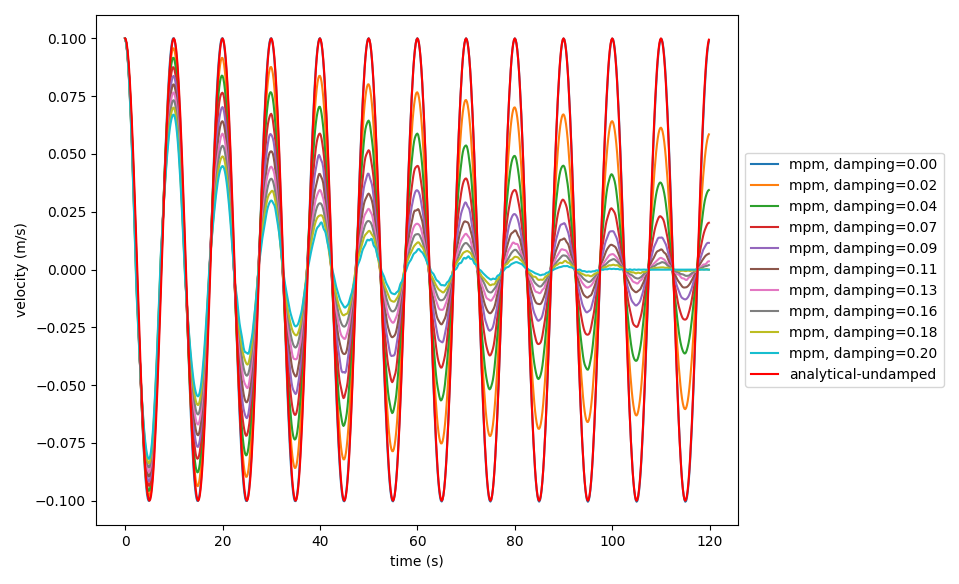
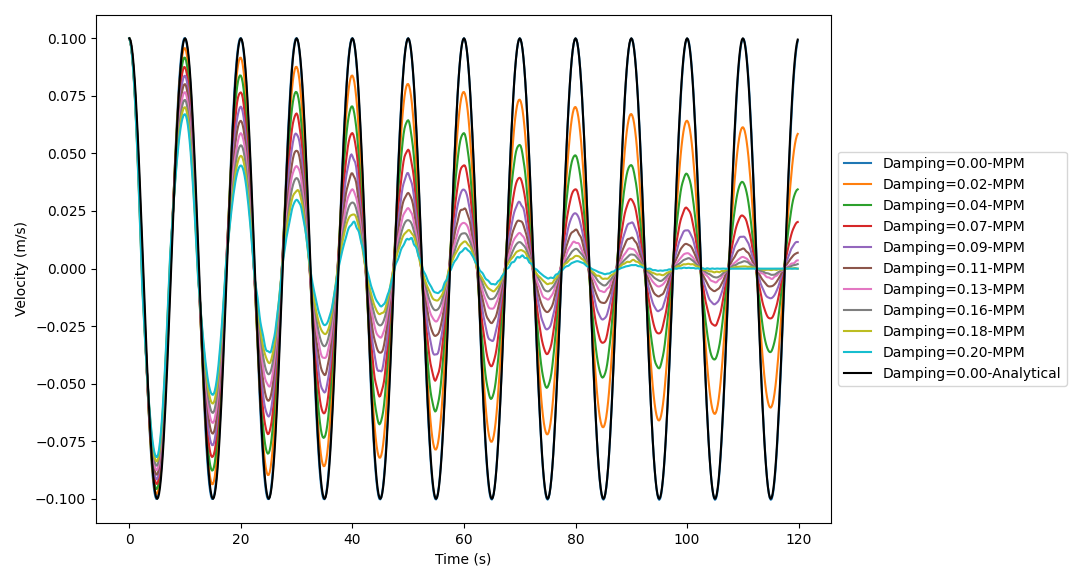
enhanced plots in the verifications problems

diff --git a/verification_problems/mpm_wave_in_pile_parametric_young.py b/verification_problems/mpm_wave_in_pile_parametric_young.py
@@ -90,14 +90,14 @@ for i in range(len(young_serie)):
         y_subset.append(msetup.solution_array[1][indices[i_index]])
         
     # plot mpm solution
-    plt.plot(x_subset,y_subset,linestyle='solid',linewidth=1,color=color_list[i],marker='o',markersize=3,markerfacecolor='none',label='mpm, Young='+'{:.1f}e6'.format(young_serie[i]/1e6))
+    plt.plot(x_subset,y_subset,linestyle='solid',linewidth=1,color=color_list[i],marker='o',markersize=3,markerfacecolor='none',label='Young='+'{:.1f}e6-MPM'.format(young_serie[i]/1e6))
     
     # plot the analytical solution
     [anal_xt,anal_vt, anal_t] = wip.wave_in_pile_fixed_and_loaded(L=L,E=young_serie[i],rho=elastic.density,time=msetup.time,dt=msetup.dt/2,po=po,x=pos_initial)
-    plt.plot(anal_t,anal_xt,color=color_list[i],linewidth=1,label='analytical')
+    plt.plot(anal_t,anal_xt,color=color_list[i],linewidth=1,label='Young='+'{:.1f}e6-Analytical'.format(young_serie[i]/1e6))
 
 # configure axis, legends and show plot
-plt.gca().set_xlabel('time (s)')
-plt.gca().set_ylabel('position (m)')
+plt.gca().set_xlabel('Time (s)')
+plt.gca().set_ylabel('Position (m)')
 plt.legend(loc='center left', bbox_to_anchor=(1.0, 0.5))
 plt.show()

diff --git a/verification_problems/mpm_single_mass_vibration_parametric_density.py b/verification_problems/mpm_single_mass_vibration_parametric_density.py
@@ -88,16 +88,16 @@ for i in range(len(density_serie)):
         y_subset.append(msetup.solution_array[1][indices[i_index]])
         
     # plot mpm solution
-    plt.plot(x_subset,y_subset,' ',color=color_list[i],marker='s',markerfacecolor='none',label='mpm, density='+'{:.2f}'.format(density_serie[i]))
+    plt.plot(x_subset,y_subset,' ',color=color_list[i],marker='s',markerfacecolor='none',label='Density={:.2f}-MPM'.format(density_serie[i]))
     
     # plot the analytical solution
     from analitical_solutions import analitical_solution_single_mass_vibration as smpv
     [anal_xt, anal_t] = smpv.single_mass_point_vibration_solution(L,elastic.E,elastic.density,msetup.time,msetup.dt,L/2,vo)
     
-    plt.plot(anal_t,anal_xt,'-',color=color_list[i],label='analytical')
+    plt.plot(anal_t,anal_xt,'-',color=color_list[i],label='Density={:.2f}-Analytical'.format(density_serie[i]))
 
 # configure axis, legends and show plot
-plt.xlabel('time (s)')
-plt.ylabel('displacement (m)')
+plt.xlabel('Time (s)')
+plt.ylabel('Position (m)')
 plt.legend(loc='center left', bbox_to_anchor=(1.0, 0.5))
 plt.show()

diff --git a/verification_problems/mpm_continuum_bar_vibration_damping.py b/verification_problems/mpm_continuum_bar_vibration_damping.py
@@ -71,15 +71,15 @@ for i in range(len(damping_serie)):
   solver.explicit_solution(msh,msetup)
       
   # plot mpm solution
-  plt.plot(msetup.solution_array[0],msetup.solution_array[1],label=str('mpm, damping='+'{:.2f}'.format(damping_serie[i])))
+  plt.plot(msetup.solution_array[0],msetup.solution_array[1],label=str('Damping={:.2f}-MPM'.format(damping_serie[i])))
 
 # plot the analytical solution
 from analitical_solutions import analitical_solution_continuum_bar_vibration as cbv
 [anal_xt,anal_vt, anal_t] = cbv.continuum_bar_vibration_solution(L,elastic.E,elastic.density,msetup.time,msetup.dt,vo,msh.particles[msetup.solution_particle].position)
-plt.plot(anal_t,anal_vt,'r',linewidth=1.5,label='analytical-undamped')
+plt.plot(anal_t,anal_vt,'k',linewidth=1.5,label='Damping={:.2f}-Analytical'.format(0))
 
 # configure axis, legends and show plot
-plt.xlabel('time (s)')
-plt.ylabel('velocity (m/s)')
+plt.xlabel('Time (s)')
+plt.ylabel('Velocity (m/s)')
 plt.legend(loc='center left', bbox_to_anchor=(1.0, 0.5))
 plt.show()
